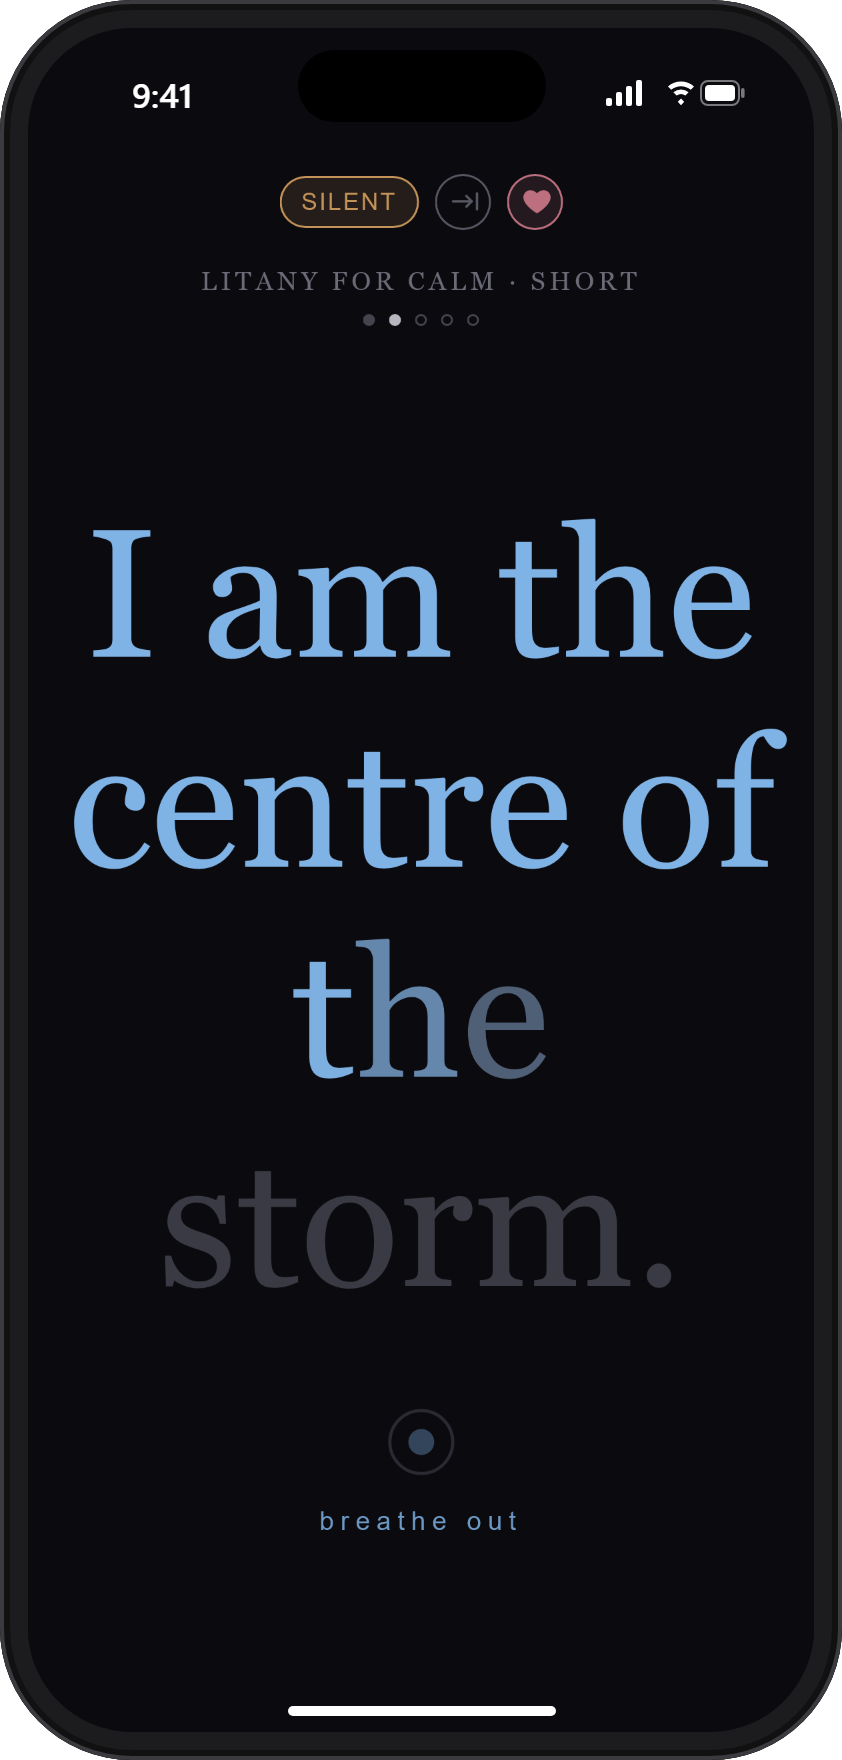
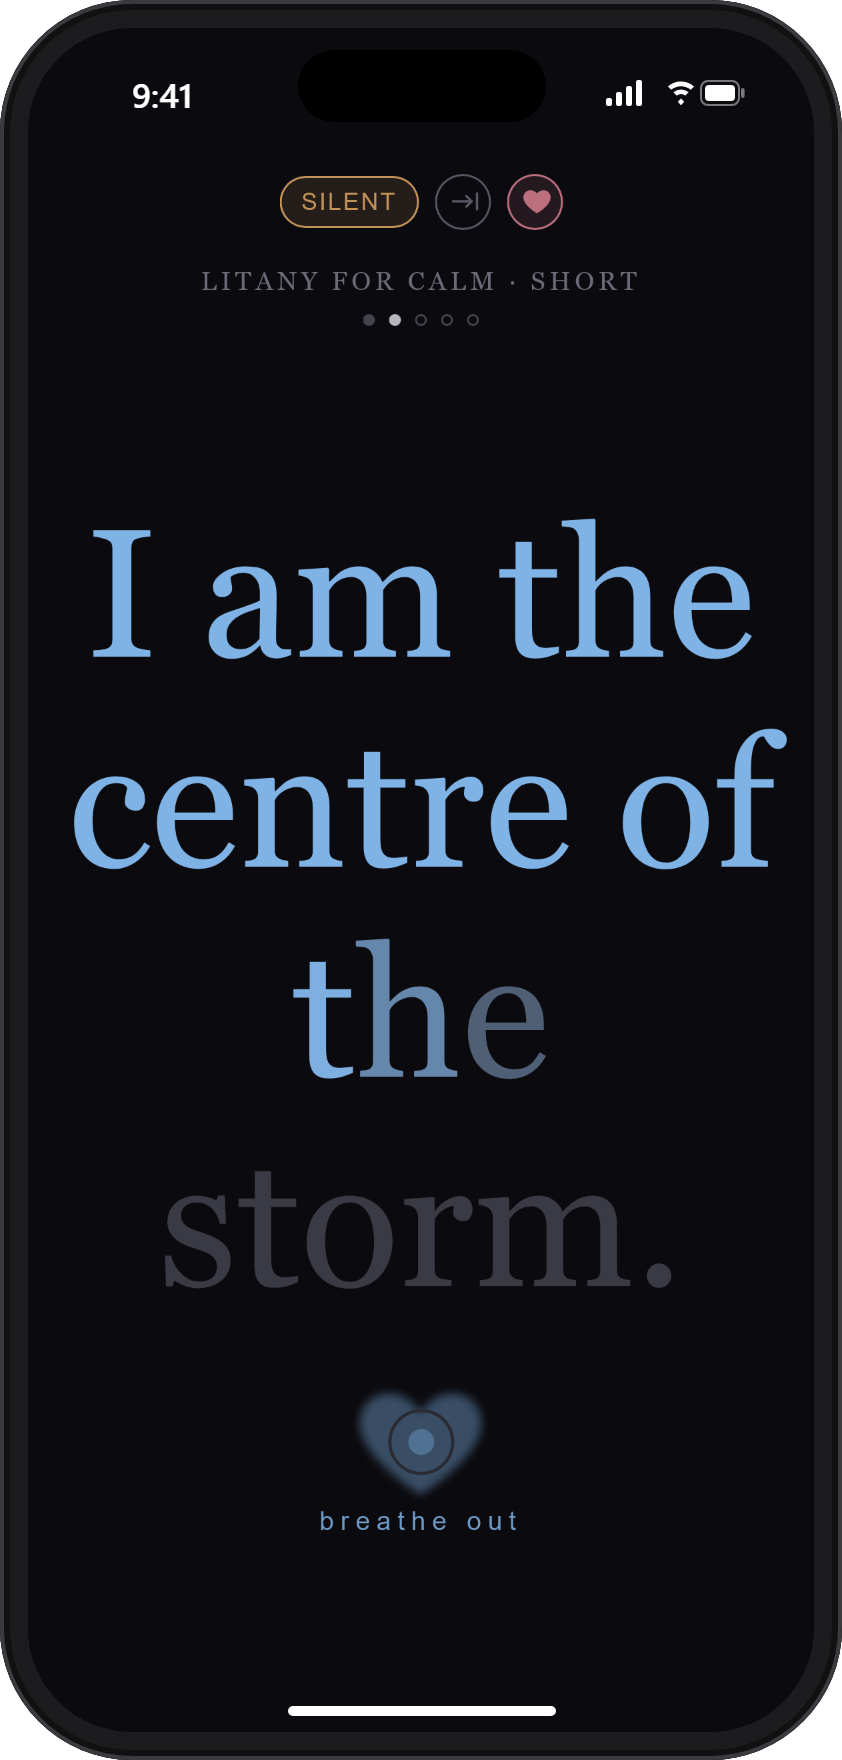
docs(readme): how to calm with the heartbeat and sound; phone shots show it

Changed region(s): [[0.4323, 0.7812, 0.5867, 0.875]]

diff --git a/README.md b/README.md
@@ -6,7 +6,7 @@
 [![Dependencies: none](https://img.shields.io/badge/dependencies-none-brightgreen)](package.json)
 [![Docker](https://img.shields.io/badge/Docker-ready-2496ED?logo=docker&logoColor=white)](#docker)
 
-A very simple app that shows a litany one line at a time, in large text, paced to guide calm breathing. You can also see the whole litany on one screen if you prefer, or read a three-line short form when you only have a moment.
+A very simple app that shows a litany one line at a time, in large text, paced to guide calm breathing. You can also see the whole litany on one screen if you prefer, or read a three-line short form when you only have a moment. An optional [heartbeat](#heartbeat), seen and heard, slows as you read to help you settle.
 
 | One line at a time | Whole litany |
 |---|---|
@@ -34,9 +34,9 @@ These help me. I hope they help someone else.
 ## Install as an app
 
 <p align="center">
-  <img src="docs/phone-short-line.png" width="260" alt="Installed on an iPhone, the short form one line at a time: 'I am the centre of the storm.' fills in blue on the out-breath, with five dots under the title for the five lines">
+  <img src="docs/phone-short-line.png" width="260" alt="Installed on an iPhone, the short form one line at a time: 'I am the centre of the storm.' fills in blue on the out-breath, with five dots under the title for the five lines, and a soft blue heartbeat behind the breath ring">
   &nbsp;&nbsp;
-  <img src="docs/phone-short-whole.png" width="260" alt="Installed on an iPhone, the whole short form on one screen: the first two lines keep their breath colour and the third fills in amber on the in-breath">
+  <img src="docs/phone-short-whole.png" width="260" alt="Installed on an iPhone, the whole short form on one screen: the first two lines keep their breath colour and the third fills in amber on the in-breath, with a soft amber heartbeat behind the breath ring">
 </p>
 
 The reader is online at **https://piyook.github.io/Litany-Reader/**. You can use it in the browser as it is, or install it as an app on a computer, phone or tablet. Installed, it has its own icon, opens in its own window with no address bar or browser toolbars, and works with no internet connection: every litany is saved on the device the first time it opens.
@@ -216,9 +216,28 @@ Each time you read the litany through, more words are hidden: a quarter, then ha
 
 ## Heartbeat
 
-Turn it on with the heartbeat button (a heart with a pulse line through it), `B`, or **Heartbeat** under **Calming** in the ⚙ settings. A soft heart in the breath colour sits behind the breath ring and fades smoothly in and out with each beat. There is no flash or sudden change. It starts at about 80 beats a minute and slows to about 54 by the end of the litany, most of the slowing early on, to help you settle with it. With repeat on it keeps slowing each time through: about 39 after the second, 31 after the third, and on down toward 20. Both ends can be changed under **Calming**: **Start heart rate** (default 80) and **Slowest heart rate** (default 20), each between 10 and 150. A change takes effect straight away, the beat gliding to the new rate. It never speeds up again: going back a line or switching form keeps the rate where it is. Opening a litany starts it afresh. It is a calming cue, not a real pulse. It is off by default, and the setting is saved in the browser. With *reduce motion* turned on in your device settings, the heart stays still.
+An optional calming cue alongside the breath: a soft heart behind the breath ring that fades in and out like a heartbeat, with a quiet "lub-dub" sound if you want it. It starts at about the pace of a resting heart and slows as you read, and keeps slowing if you repeat the litany. Watching or listening to a rhythm that gradually slows gives you something steady to settle into. It is a calming cue, not a measure of your own pulse.
 
-**Heartbeat sound**, also under **Calming**, adds a soft "lub-dub" thump on each beat. It can be on with or without the heart, and it follows the same slowing beat. Browsers only allow sound after you tap or press a key, so it starts from your first tap after the page opens. On an iPhone or iPad, the silent switch mutes it. It is off by default, and the setting is saved in the browser.
+### Using it to calm down
+
+1. Open a litany and turn on **Repeat** (the button at the top, or `L`), so it keeps going for as long as you need.
+2. Turn on the heart with the heartbeat button (a heart with a pulse line through it) or `B`.
+3. For sound too, open ⚙ settings and tick **Heartbeat sound** under **Calming**. Turn the volume low: it should be a soft thump you can just hear. On an iPhone or iPad, flick the silent switch off.
+4. Breathe with the ring and the line, and let the heartbeat sit in the background. Don't try to match it; just notice it slowing.
+5. Stay for several times through. The first time through it eases from about 80 beats a minute to about 54; then about 39, then 31, and on down toward 20.
+6. When you feel settled, pause (`Space`) or close the litany. Opening a litany starts the heartbeat fresh.
+
+On a phone, the sound plays through earphones or the speaker; with earphones it is easier to hear at a low volume. If the screen locks, the litany and the sound stop, so the app keeps the screen awake while a litany plays.
+
+### Settings
+
+All under **Calming** in the ⚙ settings, off by default and saved in the browser:
+
+- **Heartbeat**: the heart behind the breath ring. Also the heartbeat button and `B`. It fades smoothly in and out with each beat, in the breath colour, with no flash or sudden change. With *reduce motion* turned on in your device settings, the heart stays still.
+- **Heartbeat sound**: a soft "lub-dub" on each beat, made by the browser (no sound file, so it works offline). It can be on with or without the heart. Browsers only allow sound after you tap or press a key, so it starts from your first tap after the page opens.
+- **Start heart rate** (default 80) and **Slowest heart rate** (default 20), in beats a minute, each between 10 and 150. A change takes effect straight away, the beat gliding to the new rate. Lower the start rate if 80 feels too quick to begin with.
+
+The beat never speeds up while a litany is open: going back a line or switching between the long and short form keeps the rate where it is.
 
 ## Favourites
 
